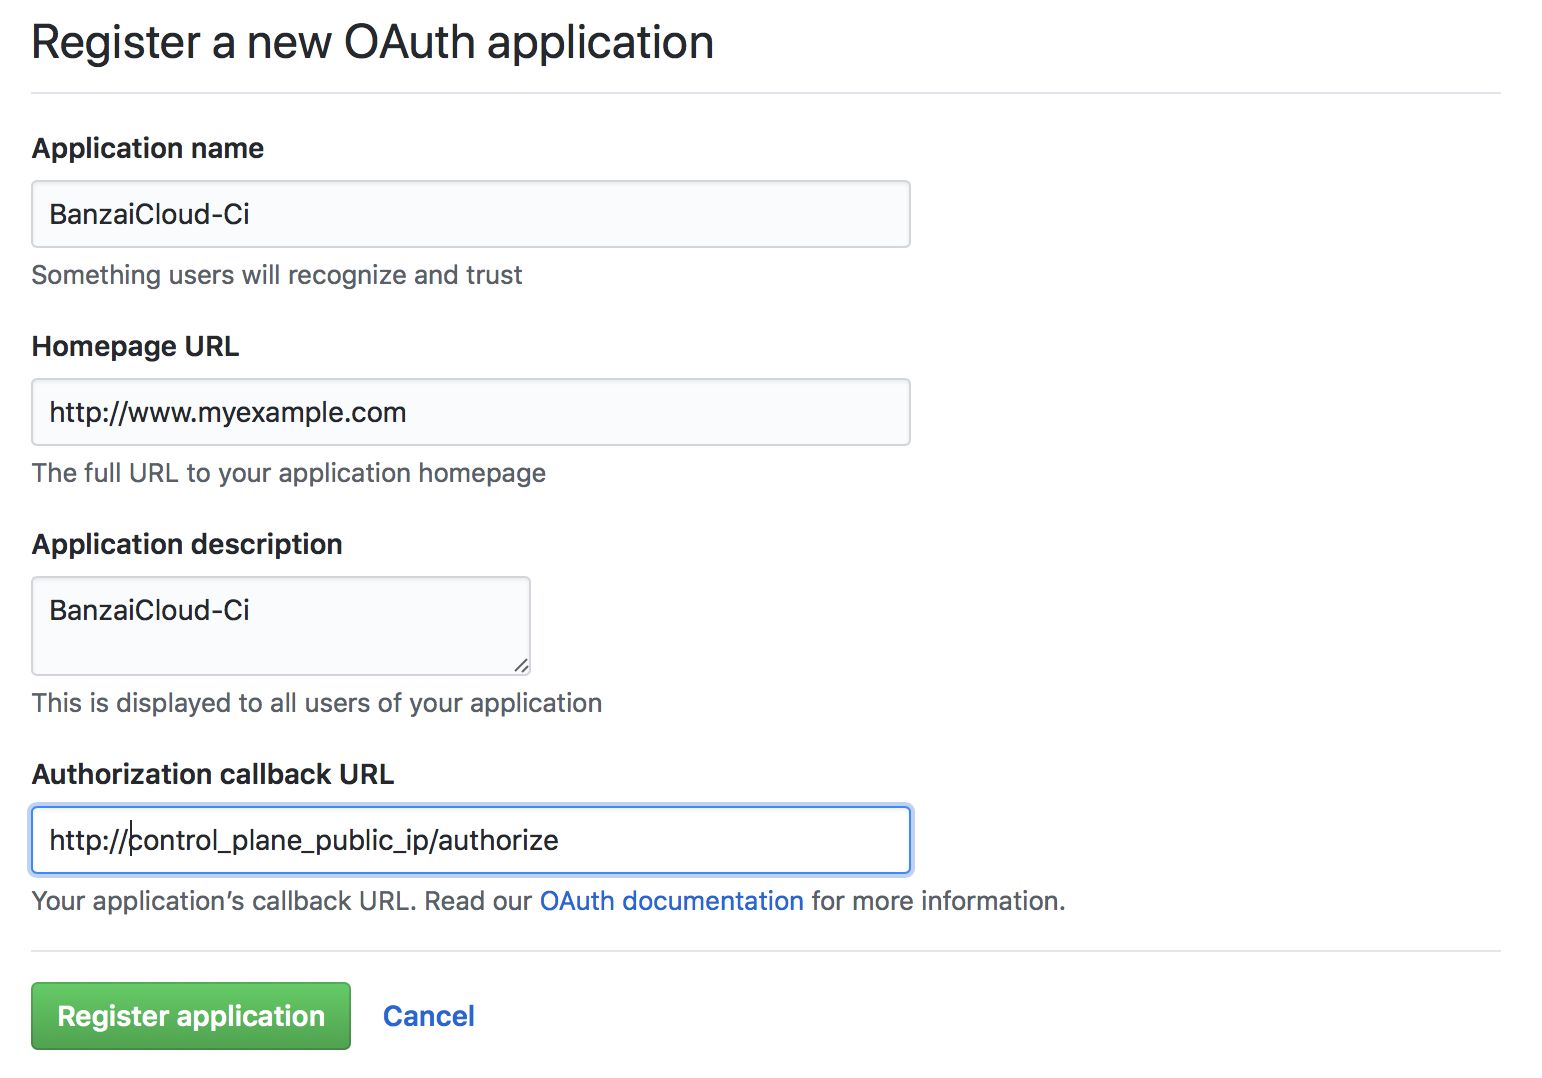
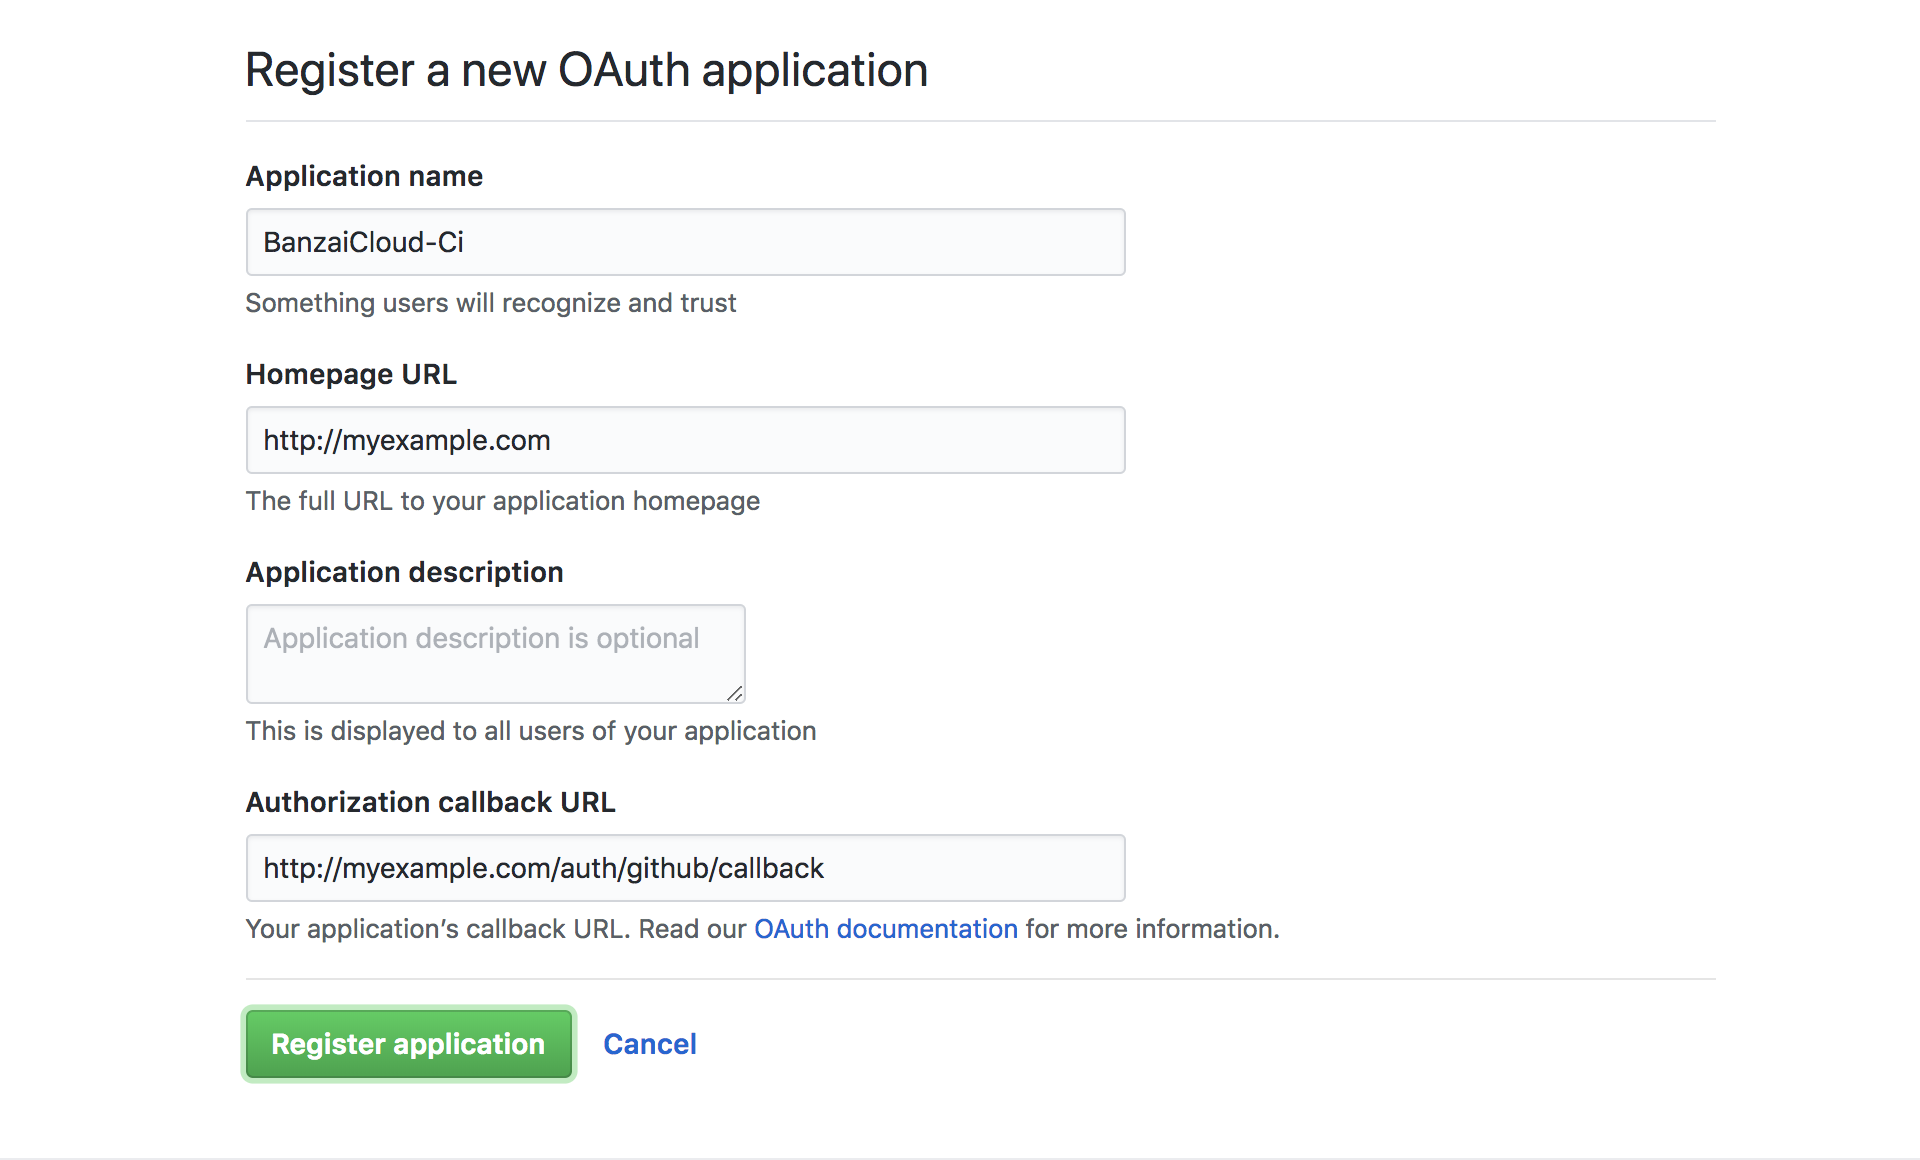
Extract Github OAuth App creation in docs

diff --git a/docs/pipeline-howto.md b/docs/pipeline-howto.md
@@ -58,15 +58,7 @@ az account show --query id
 
 ### Register the OAuth application on GitHub
 
-Register an [OAuth](https://developer.github.com/apps/building-integrations/setting-up-and-registering-oauth-apps/registering-oauth-apps/) application on GitHub for the Pipeline CI/CD workflow.
-
-<a href="images/howto/OAuthAppReg.png" target="_blank"><img src="images/howto/OAuthAppReg.png" height="250"></a>
-
-Fill in `Authorization callback URL` with some dummy value at this stage. This field will be updated once the Control Plane is up and running using the IP address or the DNS name.
-
-Take note of the `Client ID` and `Client Secret` as these will be required for launching the Pipeline Control Plane.
-
-<a href="images/howto/OAuthAppId.png" target="_blank"><img src="images/howto/OAuthAppId.png" height="250"></a>
+Setup your Pipeline GitHub OAuth application according to: [this guilde](./github-app.md)
 
 ### Launch Pipeline Control Plane on `AWS`
 
@@ -139,9 +131,7 @@ The easiest way for running a Pipeline Control Plane is to use a [Cloudformation
 
     <a href="images/howto/CloudFormulationDetails5.png"><img src="images/howto/CloudFormulationDetails5.png" height="250"></a>
 
-* Go back to the earlier created GitHub OAuth application and modify it. Set the `Authorization callback URL` field to `http://{control_plane_public_ip}/authorize`
-
-  <a href="images/howto/OAuthCallback.png"><img src="images/howto/OAuthCallback.png" height="70"></a>
+* Go back to the earlier created GitHub OAuth application and modify it. Set the `Authorization callback URL` field to `http://{control_plane_public_ip}/auth/github/callback`
 
 ### Launch Pipeline Control Plane on `Azure`
 
@@ -168,15 +158,10 @@ The easiest way for running a Pipeline Control Plane is deploying it using an [A
   * **Slack Webhook Url/Channel**
     * this section is optional. Complete this section to receive  cluster related alerts through a [Slack](https://slack.com) push notification channel.
 
-  * **Banzai Pipeline Credentials**
-     * Pipeline Password - specify the password for accessing the Pipeline REST [API](https://github.com/banzaicloud/pipeline/blob/0.2.0/docs/create.md) exposed by the Pipeline PaaS. **_Take note of the user name and password as those will be required when setting the [secrets](#repository-secrets) for the GitHub repositories in the CI/CD workflow._**
+  * **Prometheus Dashboard**
+    * Prometheus Password - specify password for accessing Prometheus that collects cluster metrics
 
-      <a href="images/howto/ARMPiCred.png"><img src="images/howto/ARMPiCred.png" height="70"></a>
-
-   * **Prometheus Dashboard**
-     * Prometheus Password - specify password for accessing Prometheus that collects cluster metrics
-
-      <a href="images/howto/ARMPrometheusCred.png"><img src="images/howto/ARMPrometheusCred.png" height="70"></a>
+    <a href="images/howto/ARMPrometheusCred.png"><img src="images/howto/ARMPrometheusCred.png" height="70"></a>
 
   * **Grafana Dashboard**
      * Grafana Dashboard Password - specify password for accessing Grafana dashboard with defaults specific to the application

diff --git a/docs/control-plane.md b/docs/control-plane.md
@@ -118,9 +118,7 @@ The easiest way for running a Pipeline Control Plane is to use a [Cloudformation
 
     <a href="images/howto/CloudFormulationDetails5.png"><img src="images/howto/CloudFormulationDetails5.png" height="250"></a>
 
-* Go back to the earlier created GitHub OAuth application and modify it. Set the `Authorization callback URL` field to `http://{control_plane_public_ip}/authorize`
-
-  <a href="images/howto/OAuthCallback.png"><img src="images/howto/OAuthCallback.png" height="70"></a>
+* Go back to the earlier created GitHub OAuth application and modify it. Set the `Authorization callback URL` field to `http://{control_plane_public_ip}/auth/github/callback`
 
 ### Launch Pipeline Control Plane on `Azure`
 
@@ -147,15 +145,10 @@ The easiest way for running a Pipeline Control Plane is deploying it using an [A
   * **Slack Webhook Url/Channel**
     * this section is optional. Complete this section to receive  cluster related alerts through a [Slack](https://slack.com) push notification channel.
 
-  * **Banzai Pipeline Credentials**
-     * Pipeline Password - specify the password for accessing the Pipeline REST [API](https://github.com/banzaicloud/pipeline/blob/0.2.0/docs/create.md) exposed by the Pipeline PaaS. **_Take note of the user name and password as those will be required when setting the [secrets](#repository-secrets) for the GitHub repositories in the CI/CD workflow._**
+  * **Prometheus Dashboard**
+    * Prometheus Password - specify password for accessing Prometheus that collects cluster metrics
 
-      <a href="images/howto/ARMPiCred.png"><img src="images/howto/ARMPiCred.png" height="70"></a>
-
-   * **Prometheus Dashboard**
-     * Prometheus Password - specify password for accessing Prometheus that collects cluster metrics
-
-      <a href="images/howto/ARMPrometheusCred.png"><img src="images/howto/ARMPrometheusCred.png" height="70"></a>
+    <a href="images/howto/ARMPrometheusCred.png"><img src="images/howto/ARMPrometheusCred.png" height="70"></a>
 
   * **Grafana Dashboard**
      * Grafana Dashboard Password - specify password for accessing Grafana dashboard with defaults specific to the application

diff --git a/docs/github-app.md b/docs/github-app.md
@@ -1,0 +1,53 @@
+## GitHub OAuth App setup
+
+### Register the OAuth application on GitHub
+
+Register an [OAuth](https://developer.github.com/apps/building-integrations/setting-up-and-registering-oauth-apps/registering-oauth-apps/) application on GitHub for the Pipeline API and CI/CD workflow.
+
+<a href="images/howto/OAuthAppReg.png" target="_blank"><img src="images/howto/OAuthAppReg.png" height="250"></a>
+
+Fill in `Authorization callback URL`. This field has to be updated once the Control Plane is up and running using the IP address or the DNS name:
+
+- For local usage:
+    ```bash
+    http://localhost:9090/auth/github/callback
+    ```
+
+- For on-cloud usage:
+    ```bash
+    http://{control_plane_public_ip}/auth/github/callback
+    ```
+
+Take note of the `Client ID` and `Client Secret` as these will be required for launching the Pipeline Control Plane.
+
+<a href="images/howto/OAuthAppId.png" target="_blank"><img src="images/howto/OAuthAppId.png" height="250"></a>
+
+
+### Acquiring the access token
+
+For accessing the Pipeline one has to be authenticated via GitHub. For programmatic API access an access token has to be generated.
+
+Tokens can be generated only with a browser (for now), to do that please use the following URL:
+
+- For local usage:
+    ```bash
+    http://localhost:9090/auth/github/login
+    ```
+
+- For on-cloud usage:
+    ```bash
+    http://{control_plane_public_ip}/auth/github/login
+    ```
+
+Please authenticate yourself with GitHub. If everything is done correctly you will be redirected.
+The browser already contains the generated token. It can be retrieved by issuing the following:
+
+- For local usage:
+    ```bash
+    http://localhost:9090/api/v1/token
+    ```
+
+- For on-cloud usage:
+    ```bash
+    http://{control_plane_public_ip}/pipeline/api/v1/token
+    ```

diff --git a/docs/deployments.md b/docs/deployments.md
@@ -15,7 +15,7 @@ In order to get the `kubeconfig` you can do the following REST call:
 ```
 curl --request GET \
   --url 'http://{{url}}/api/v1/clusters/{{cluster_id}}/config' \
-  --header 'Authorization: Bearer YOUR_JWT_TOKEN' \
+  --header 'Authorization: Bearer PIPELINE_TOKEN' \
   --header 'Content-Type: application/json'
 ```
 
@@ -26,7 +26,7 @@ Now you can add a deployment with the following REST call:
 ```
 curl --request POST \
   --url 'http://{{url}}/api/v1/clusters/{{cluster_id}}/deployments' \
-  --header 'Authorization: Bearer YOUR_JWT_TOKEN' \
+  --header 'Authorization: Bearer PIPELINE_TOKEN' \
   --header 'Content-Type: application/json' \
   --data '{"name": "spark-shuffle"}'
 ```
@@ -37,7 +37,7 @@ Once the deployment is posted you can check the status with this HEAD call:
 ```
 curl --request HEAD \
   --url 'http://{{url}}/api/v1/clusters/{{cluster_id}}/deployments/{{deployment_name}}' \
-  --header 'Authorization: Bearer YOUR_JWT_TOKEN' \
+  --header 'Authorization: Bearer PIPELINE_TOKEN' \
   --header 'Content-Type: application/json'
 ```
 ##### Upgrade a deployment
@@ -47,7 +47,7 @@ Deployments can be upgraded with the following PUT call:
 ```
 curl --request PUT \
   --url 'http://{{url}}/api/v1/clusters/{{cluster_id}}/deployments/{{deployment_name}}' \
-  --header 'Authorization: Bearer YOUR_JWT_TOKEN' \
+  --header 'Authorization: Bearer PIPELINE_TOKEN' \
   --header 'Content-Type: application/x-www-form-urlencoded'
 ```
 
@@ -58,7 +58,7 @@ Finally a deployment can be deleted as well:
 ```
 curl --request DELETE \
   --url 'http://{{url}}/api/v1/clusters/{{cluster_id}}/deployments/{{deployment_name}}' \
-  --header 'Authorization: Bearer YOUR_JWT_TOKEN' \
+  --header 'Authorization: Bearer PIPELINE_TOKEN' \
   --header 'Content-Type: application/x-www-form-urlencoded'
 ```
 

diff --git a/docs/create.md b/docs/create.md
@@ -2,14 +2,16 @@
 
 Once Pipeline API is started you can create a cluster in the following ways: 
 
-    - Using the Postman examples
+- Using the Postman examples
 [![Run in Postman](https://run.pstmn.io/button.svg)](https://www.getpostman.com/collections/7a4c9291ff7b1afe5a5e)
 
-    - Using `make create-cluster` and `make delete-cluster`. If you have AWS CLI installed you can use `make ec2-list-instances` in order to see the list of clusters
+- Using `make create-cluster` and `make delete-cluster`. If you have AWS CLI installed you can use `make ec2-list-instances` in order to see the list of clusters
 
-    - Acquire a Pipeline access token on the GUI via logging in at `http://localhost:9090/auth/github/login` and then after visit `http://localhost:9090/api/v1/token`. Save it into the `PIPELINE_TOKEN` environment variable.
+- Setup your Pipeline GitHub OAuth application according to: [this guilde](./github-app.md)
 
-    - Use CURL `curl http://localhost:9090/api/v1/clusters -X POST -H "Authorization: Bearer $PIPELINE_TOKEN" -d name=test-$(USER) -d location=eu-west-1 -d nodeInstanceType=m4.xlarge -d nodeInstanceSpotPrice=0.2 -d nodeMin=1 -d nodeMax=3 -d image=ami-6d48500b`
+- Acquire a Pipeline access token on the GUI via logging in at `http://localhost:9090/auth/github/login` and then after visit `http://localhost:9090/api/v1/token`. Save it into the `PIPELINE_TOKEN` environment variable.
+
+- Use CURL `curl http://localhost:9090/api/v1/clusters -X POST -H "Authorization: Bearer $PIPELINE_TOKEN" -d name=test-$(USER) -d location=eu-west-1 -d nodeInstanceType=m4.xlarge -d nodeInstanceSpotPrice=0.2 -d nodeMin=1 -d nodeMax=3 -d image=ami-6d48500b`
     
 _Note: AWS spot prices are supported_ 
 

diff --git a/docs/developer.md b/docs/developer.md
@@ -49,24 +49,6 @@ Depending on the cloud provider there are couple of env vars has to be set:
    * AWS_SECRET_ACCESS_KEY
 *GCP
 
-#### Run Pipeline
+#### GitHub OAuth App setup
 
-For accessing the API an access token has to be generated,
-the above created Github Oauth App `Authorization callback URL` section should be:
-
-```bash
-http://localhost:9090/auth/github/callback
-```
-
-Tokens can be generated only with a browser (for now), to do that please use the following URL:
-
-```bash
-localhost:9090/auth/github/login
-```
-
-Please authenticate yourself with GitHub. If everything is done correctly you will be redirected.
-The browser already contains the generated token. It can be retrieved by issuing the following:
-
-```bash
-http://localhost:9090/api/v1/token
-```
+Setup your Pipeline GitHub OAuth application according to: [this guilde](./github-app.md)
